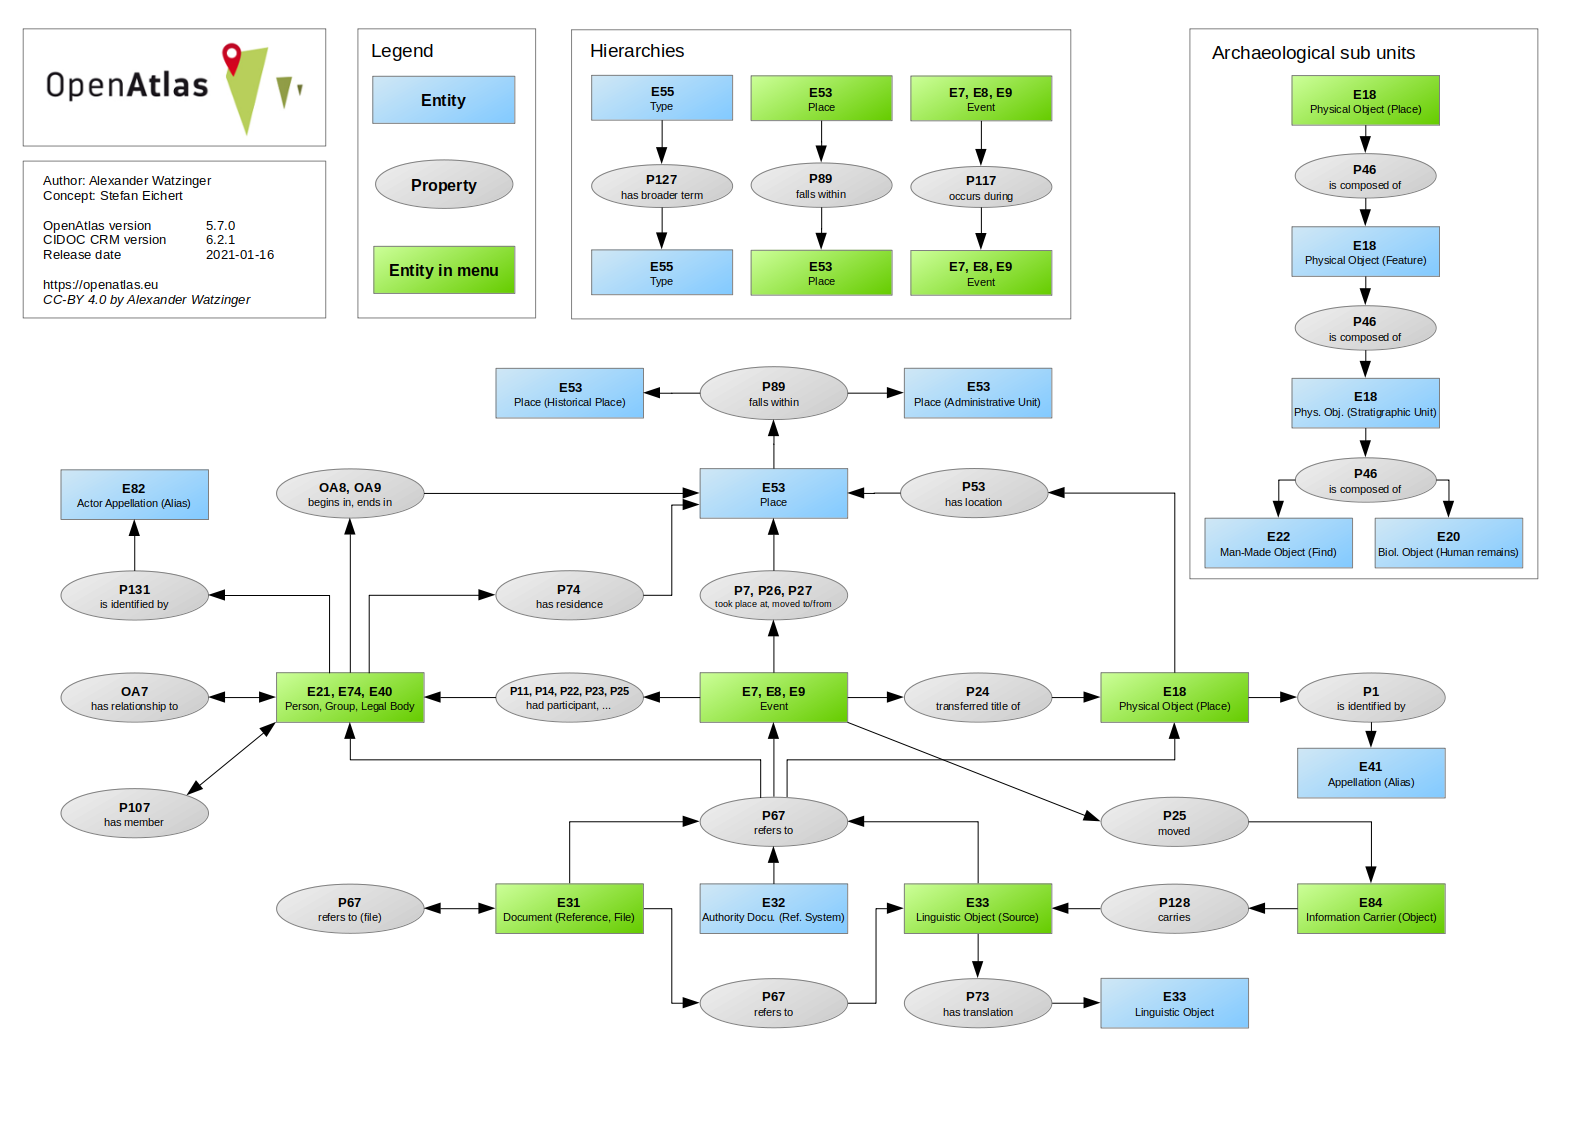
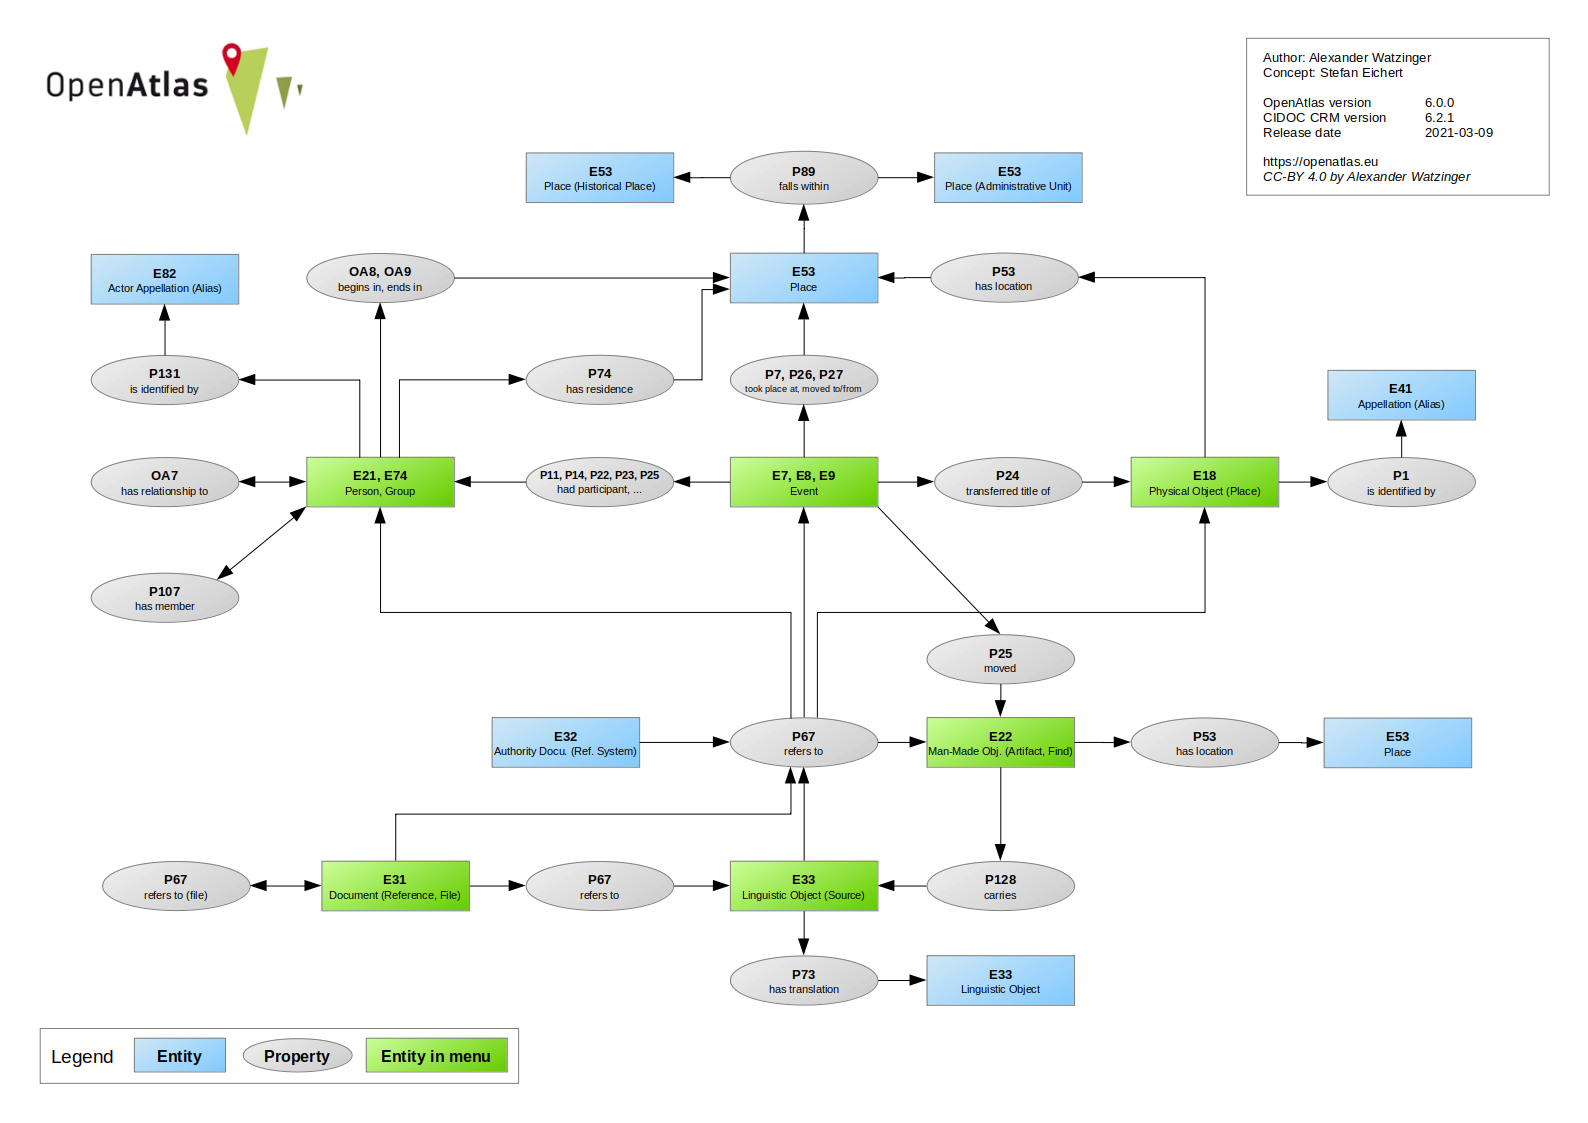
New model images with Nina

diff --git a/openatlas/templates/model/index.html b/openatlas/templates/model/index.html
@@ -6,6 +6,9 @@
     <div style="float:left">
         <a href="/static/images/model/openatlas_schema.png">
             <img src="/static/images/model/openatlas_schema.png" style="width:500px" alt="OpenAtlas schema">
+        </a><br>
+        <a href="/static/images/model/openatlas_schema2.png">
+            <img src="/static/images/model/openatlas_schema2.png" style="width:500px" alt="OpenAtlas schema">
         </a>
     </div>
     <div style="float:left;margin-left:1em;">
